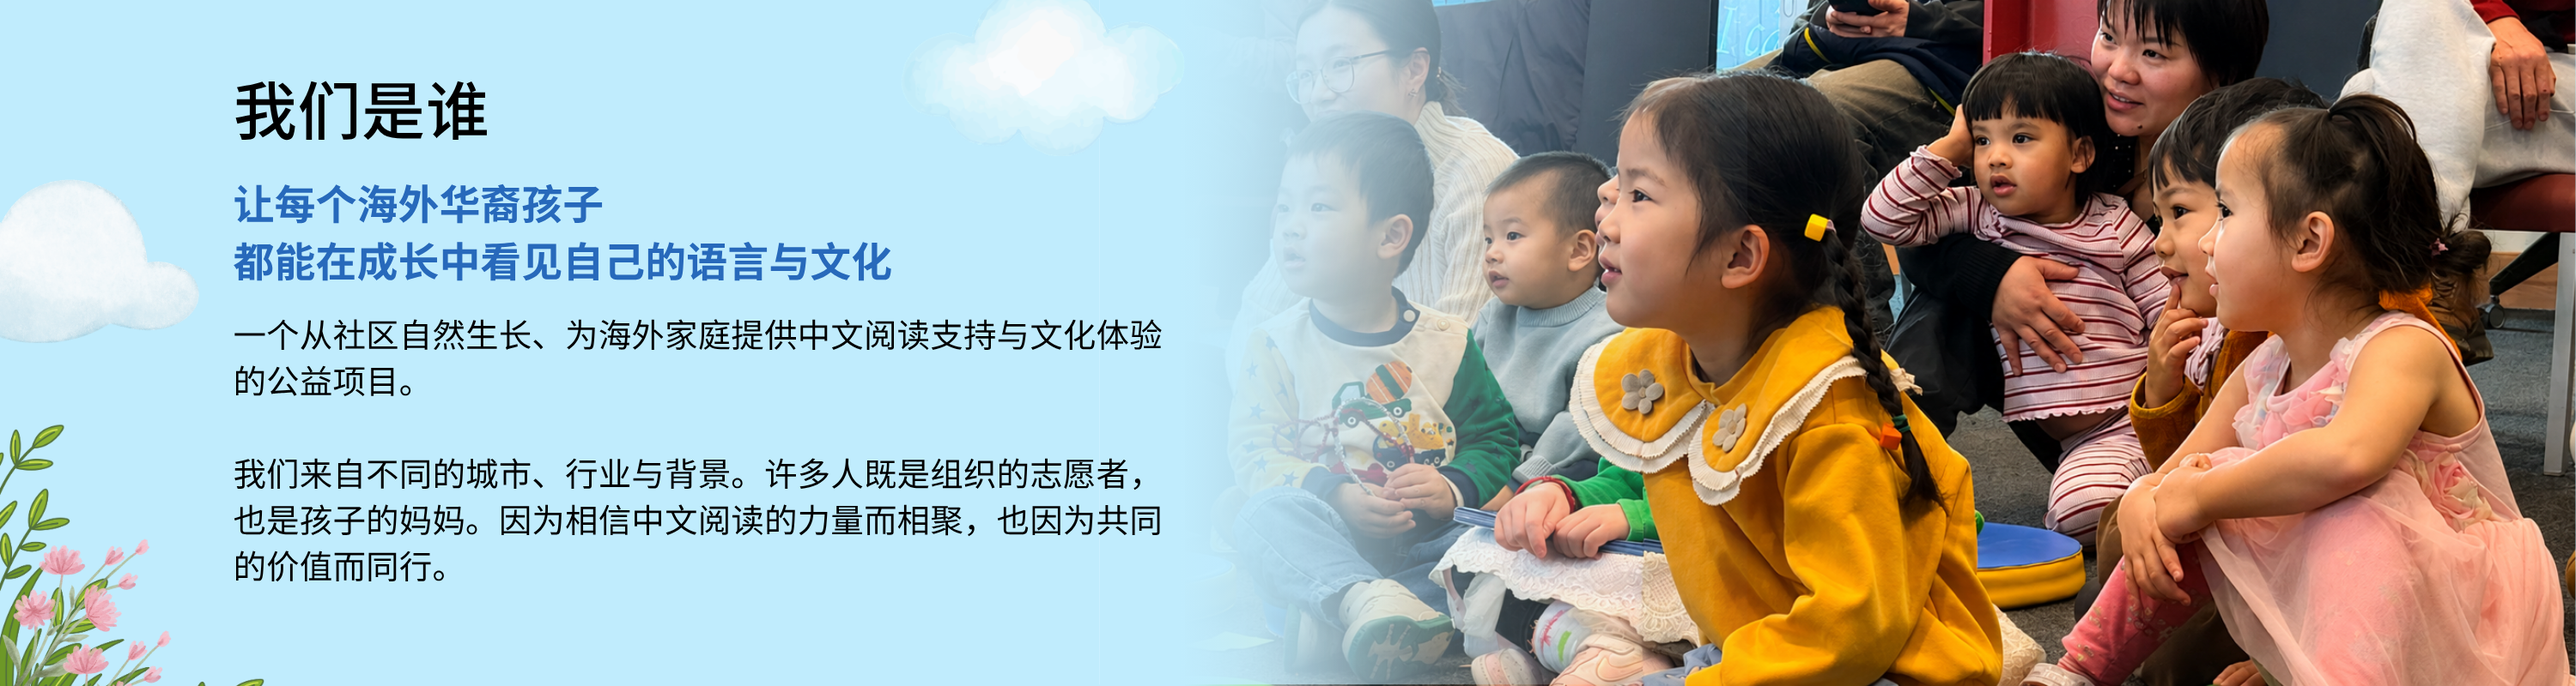
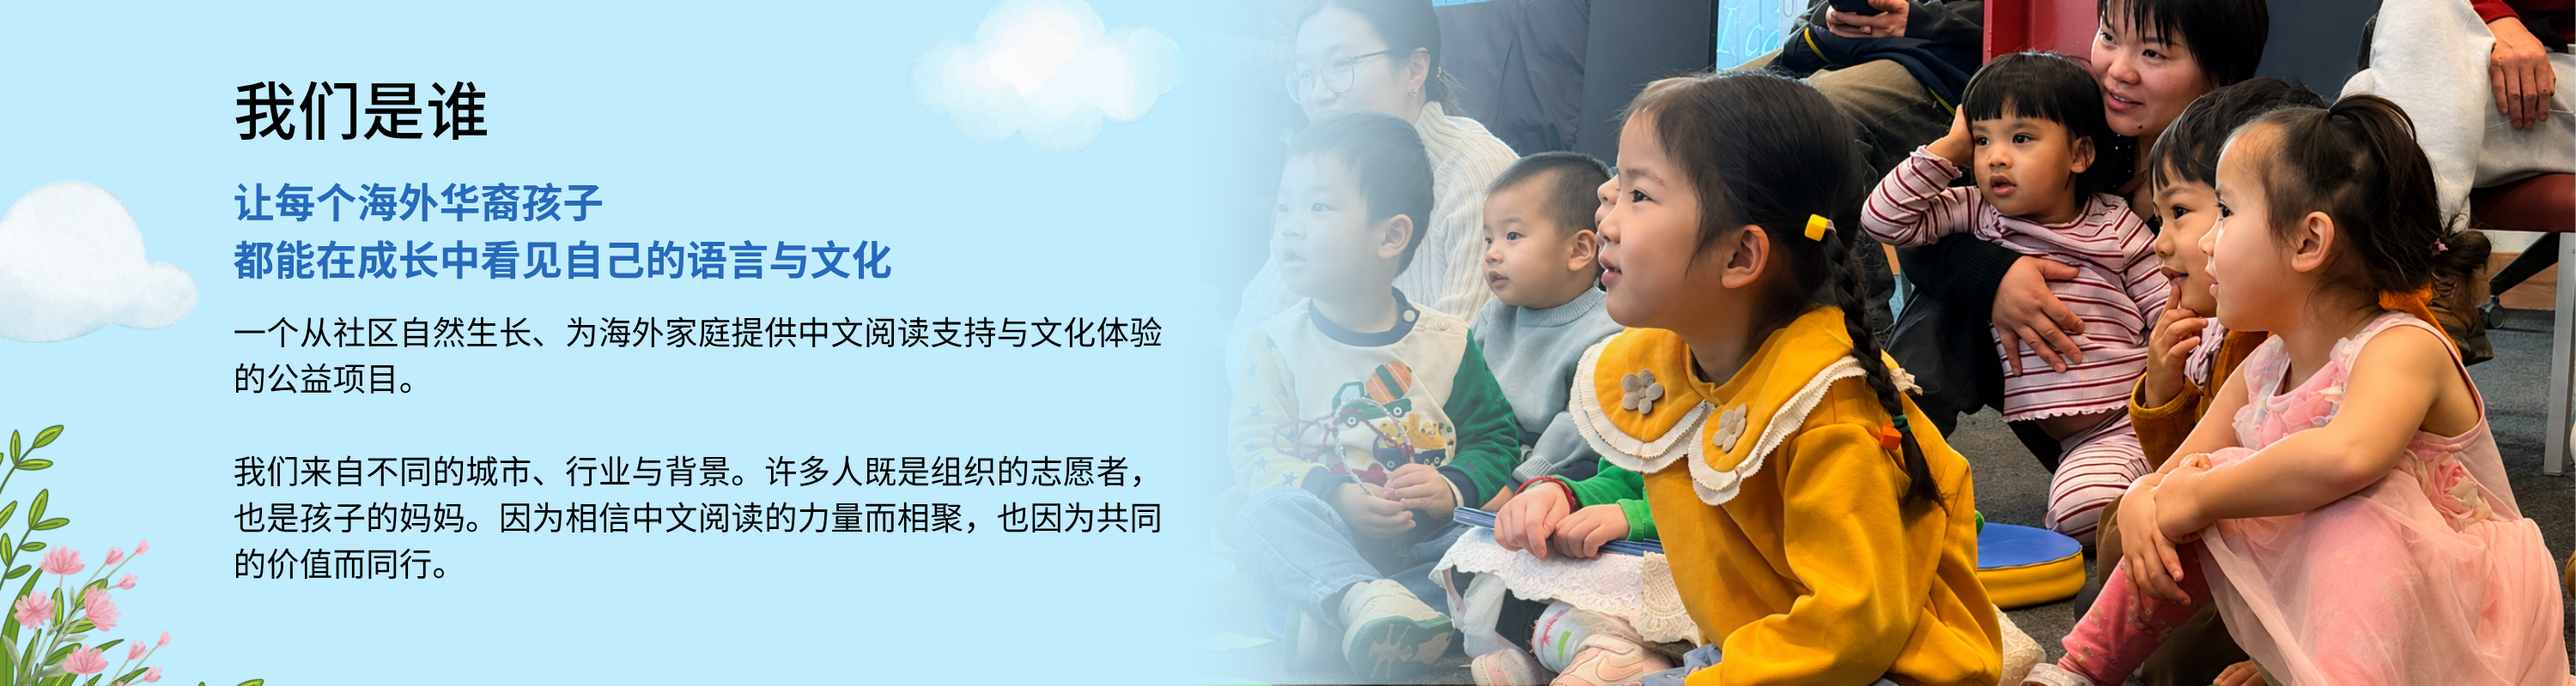
fdsf

Changed region(s): [[0.093, 0.6562, 0.465, 0.8438], [0.093, 0.25, 0.341, 0.4062], [0.093, 0.4688, 0.465, 0.5938]]

diff --git a/assets/css/main.css b/assets/css/main.css
@@ -3730,66 +3730,6 @@ html {
 
 
 
-.about-hero {
-  position: relative;
-  width: 100%;
-  aspect-ratio: 3000 / 800;
-  overflow: hidden;
-  margin: 0;
-}
-
-.about-hero-image {
-  position: absolute;
-  inset: 0;
-}
-
-.about-hero-image img {
-  width: 100%;
-  height: 100%;
-  display: block;
-  object-fit: cover;
-}
-
-.story-section {
-  background: rgba(254,250,246,1);
-  margin: 0;
-  padding: 2.8em 0;
-}
-
-.story-inner {
-  width: auto;
-  margin: 0;
-  padding-left: clamp(3rem, 8vw, 10rem);
-  padding-right: clamp(3rem, 8vw, 10rem);
-}
-
-.job_distribution {
-  background: #FFF8EE;
-  margin: 0;
-  padding: 2.8em 0;
-}
-
-/* mobile */
-@media screen and (max-width: 736px) {
-  .about-hero-image {
-    height: auto;
-  }
-
-  .about-hero-image img {
-    height: auto;
-    object-fit: contain;
-  }
-
-  .story-section {
-    margin-top: 0;
-  }
-
-  .story-inner {
-    padding-left: 1.5em;
-    padding-right: 1.5em;
-  }
-}
-
 
 
 

diff --git a/assets/css/about-us.css b/assets/css/about-us.css
@@ -1,0 +1,60 @@
+.about-hero {
+  position: relative;
+  width: 100%;
+  aspect-ratio: 3000 / 800;
+  overflow: hidden;
+  margin: 0;
+}
+
+.about-hero-image {
+  position: absolute;
+  inset: 0;
+}
+
+.about-hero-image img {
+  width: 100%;
+  height: 100%;
+  display: block;
+  object-fit: cover;
+}
+
+.story-section {
+  background: rgba(254,250,246,1);
+  margin: 0;
+  padding: 2.8em 0;
+}
+
+.story-inner {
+  width: auto;
+  margin: 0;
+  padding-left: clamp(3rem, 8vw, 10rem);
+  padding-right: clamp(3rem, 8vw, 10rem);
+}
+
+.job_distribution {
+  background: #FFF8EE;
+  margin: 0;
+  padding: 2.8em 0;
+}
+
+/* mobile */
+@media screen and (max-width: 736px) {
+  .about-hero-image {
+    height: auto;
+  }
+
+  .about-hero-image img {
+    height: auto;
+    object-fit: contain;
+  }
+
+  .story-section {
+    margin-top: 0;
+  }
+
+  .story-inner {
+    padding-left: 1.5em;
+    padding-right: 1.5em;
+  }
+}
+

diff --git a/about-us.html b/about-us.html
@@ -10,6 +10,7 @@
 		<meta charset="utf-8" />
 		<meta name="viewport" content="width=device-width, initial-scale=1, user-scalable=no" />
 		<link rel="stylesheet" href="assets/css/main.css" />
+		<link rel="stylesheet" href="assets/css/about-us.css" />
 		<link
 		  rel="stylesheet"
 		  href="https://cdnjs.cloudflare.com/ajax/libs/font-awesome/6.5.0/css/all.min.css"
@@ -55,7 +56,7 @@
 									</li>
 
 									<li>
-										<a href="support-us.html">支持参与</a>
+										<a href="support-us.html">支持我们</a>
 									</li>
 								</ul>
 							</nav>
@@ -75,7 +76,7 @@
 					  </div> -->
 
 					  <div class="about-hero-image">
-					    <img src="images/aboutus_hero.png" alt="中文儿童图书馆故事会">
+					    <img src="images/aboutus_hero.png" alt="关于我们欢迎大图">
 					  </div>
 					</section>
 				</div>

diff --git a/news.html b/news.html
@@ -113,7 +113,7 @@ document.addEventListener('DOMContentLoaded', loadNewsSidebar);
 									</li>
 
 									<li>
-										<a href="support-us.html">支持参与</a>
+										<a href="support-us.html">支持我们</a>
 									</li>
 								</ul>
 							</nav>

diff --git a/book-donation.html b/book-donation.html
@@ -56,7 +56,7 @@
 									</li>
 
 									<li class="current">
-										<a href="support-us.html">支持参与</a>
+										<a href="support-us.html">支持我们</a>
 									</li>
 								</ul>
 							</nav>

diff --git a/join-us.html b/join-us.html
@@ -57,7 +57,7 @@
 									</li>
 
 									<li class="current">
-										<a href="support-us.html">支持参与</a>
+										<a href="support-us.html">支持我们</a>
 									</li>
 								</ul>
 							</nav>

diff --git a/support-us.html b/support-us.html
@@ -56,7 +56,7 @@
 									</li>
 
 									<li class="current">
-										<a href="support-us.html">支持参与</a>
+										<a href="support-us.html">支持我们</a>
 									</li>
 								</ul>
 							</nav>

diff --git a/past_news_html/news-past-202509.html b/past_news_html/news-past-202509.html
@@ -55,7 +55,7 @@
 									</li>
 
 									<li>
-										<a href="../support-us.html">支持参与</a>
+										<a href="../support-us.html">支持我们</a>
 									</li>
 								</ul>
 							</nav>

diff --git a/past_news_html/news-past-202510.html b/past_news_html/news-past-202510.html
@@ -55,7 +55,7 @@
 									</li>
 
 									<li>
-										<a href="../support-us.html">支持参与</a>
+										<a href="../support-us.html">支持我们</a>
 									</li>
 								</ul>
 							</nav>

diff --git a/past_news_html/news-past-202511.html b/past_news_html/news-past-202511.html
@@ -55,7 +55,7 @@
 									</li>
 
 									<li>
-										<a href="../support-us.html">支持参与</a>
+										<a href="../support-us.html">支持我们</a>
 									</li>
 								</ul>
 							</nav>

diff --git a/past_news_html/news-past-202512.html b/past_news_html/news-past-202512.html
@@ -55,7 +55,7 @@
 									</li>
 
 									<li>
-										<a href="../support-us.html">支持参与</a>
+										<a href="../support-us.html">支持我们</a>
 									</li>
 								</ul>
 							</nav>

diff --git a/past_news_html/news-past-202601.html b/past_news_html/news-past-202601.html
@@ -55,7 +55,7 @@
 									</li>
 
 									<li>
-										<a href="../support-us.html">支持参与</a>
+										<a href="../support-us.html">支持我们</a>
 									</li>
 								</ul>
 							</nav>
